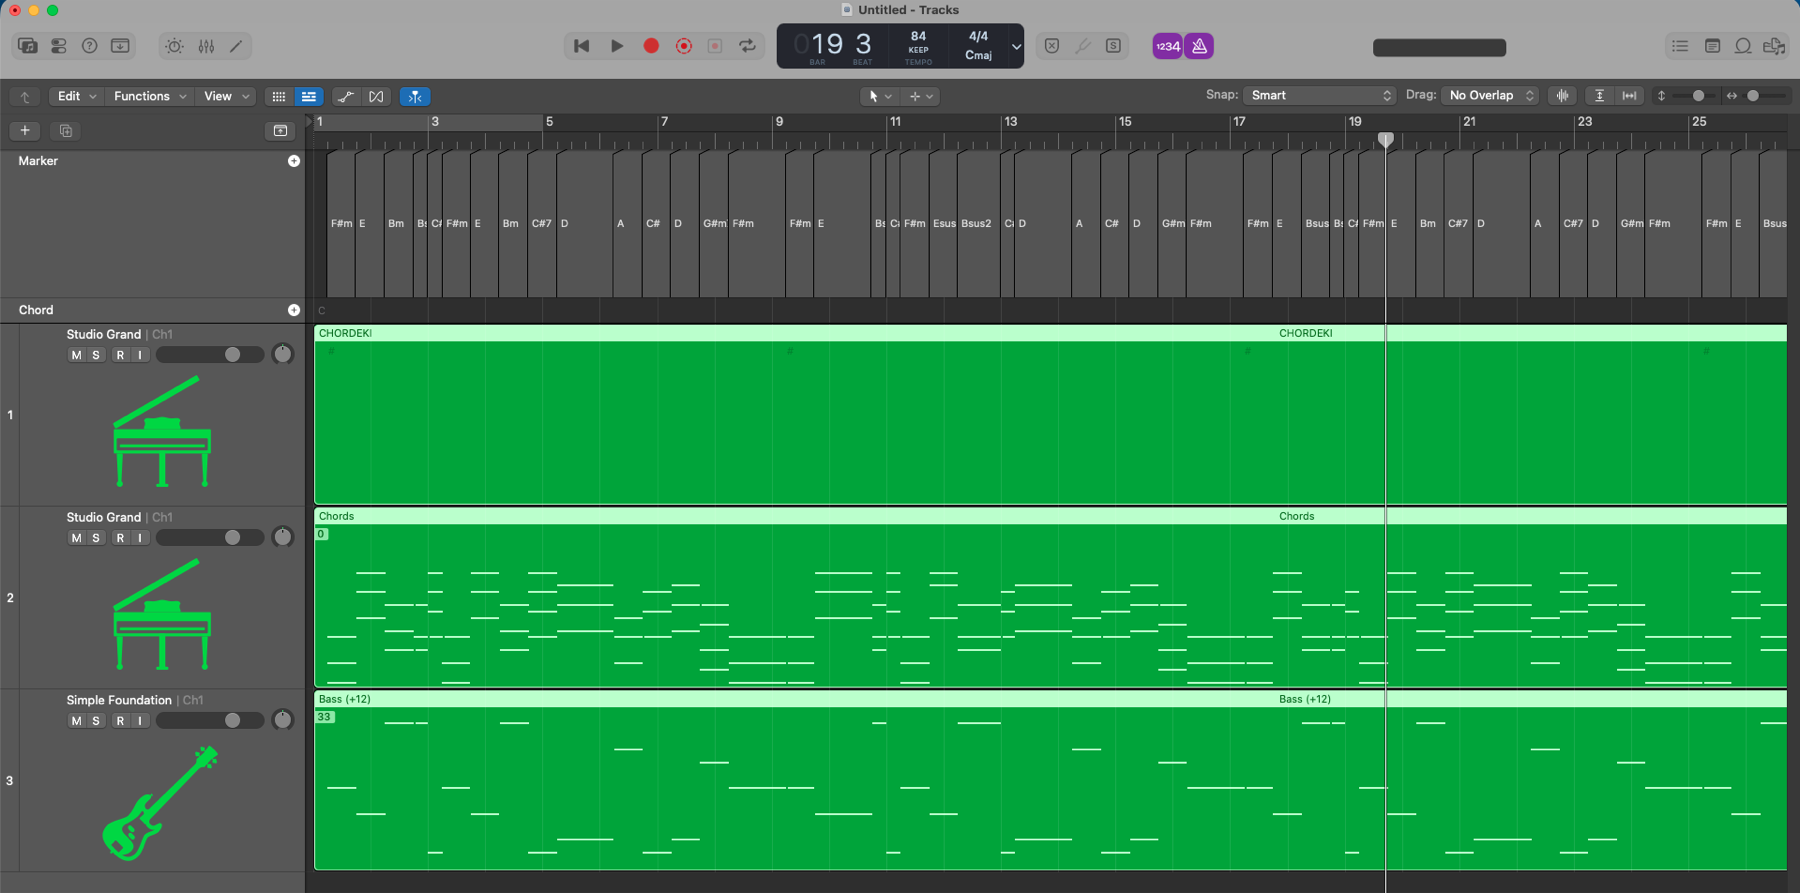
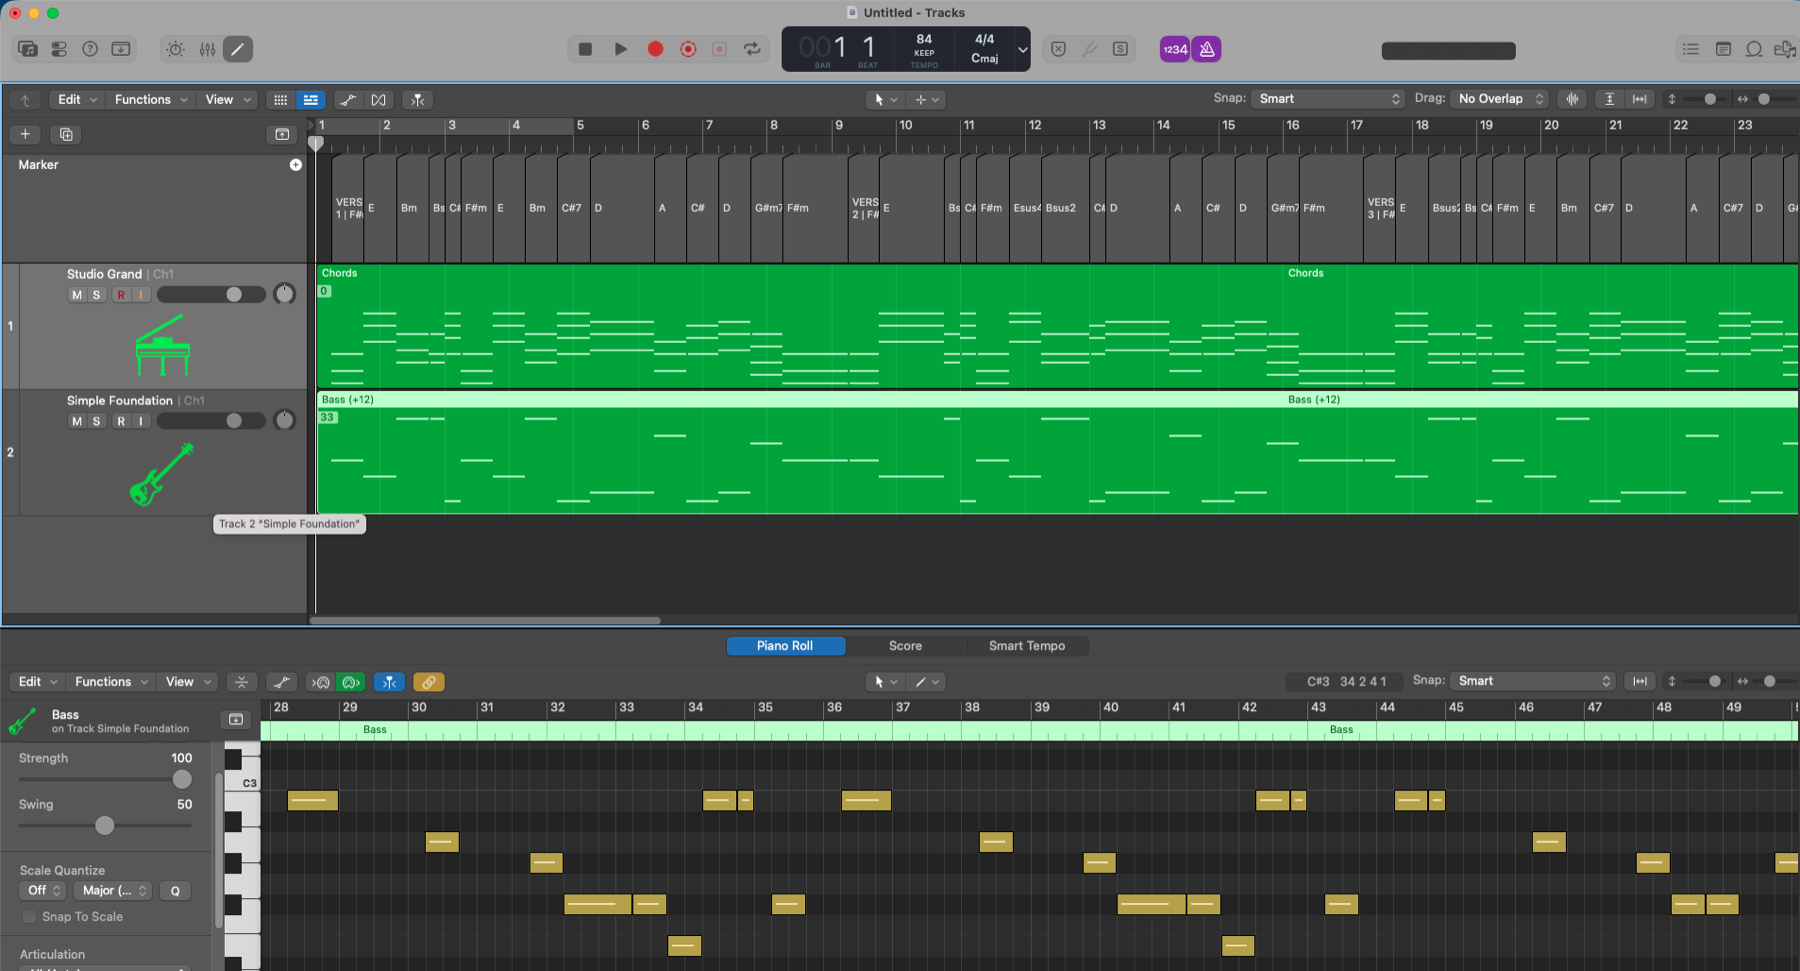
Website: Logic Pro screenshot of the 1.2.1 MIDI export

diff --git a/docs/hu/index.html b/docs/hu/index.html
@@ -163,8 +163,8 @@
 <section style="padding-top:10px">
   <div class="wrap">
     <h2>Egyenesen a DAW-ba</h2>
-    <p class="lead">Húzd be a MIDI-fájlt a dal mellé: kapsz egy <b>akkordsávot</b>, egy <b>basszussávot</b>, és minden akkord neve <b>markerként</b> ott van az idővonalon, a dal saját tempóján – itt Logic Pro-ban, az első ütemtől az utolsóig.</p>
-    <div class="shot" style="margin-top:0"><img src="../assets/chordeki-daw.png" alt="CHORDEKI MIDI-export Logic Pro-ban: akkordnevek markerként, akkordsáv és basszussáv"></div>
+    <p class="lead">Húzd be a MIDI-fájlt a dal mellé: kapsz egy <b>akkordsávot</b>, egy <b>basszussávot</b>, és minden akkord neve és a dal részei <b>markerként</b> ott vannak az idővonalon („VERSE 1 | F#m”), a dal saját tempóján – itt Logic Pro-ban, az első ütemtől az utolsóig.</p>
+    <div class="shot" style="margin-top:0"><img src="../assets/chordeki-daw.png" alt="CHORDEKI MIDI-export Logic Pro-ban: akkordnevek és részek markerként, akkordsáv és basszussáv"></div>
   </div>
 </section>
 

diff --git a/docs/index.html b/docs/index.html
@@ -162,8 +162,8 @@
 <section style="padding-top:10px">
   <div class="wrap">
     <h2>Straight into your DAW</h2>
-    <p class="lead">Drag the MIDI file in next to the song: a <b>chord track</b>, a <b>bass track</b> and every chord name as a <b>marker</b> on the timeline, on the song's own tempo – here in Logic Pro, from bar 1 to the last.</p>
-    <div class="shot" style="margin-top:0"><img src="assets/chordeki-daw.png" alt="A CHORDEKI MIDI export opened in Logic Pro: chord names as markers, a chord track and a bass track"></div>
+    <p class="lead">Drag the MIDI file in next to the song: a <b>chord track</b>, a <b>bass track</b>, and every chord name and section as a <b>marker</b> on the timeline ("VERSE 1 | F#m"), on the song's own tempo – here in Logic Pro, from bar 1 to the last.</p>
+    <div class="shot" style="margin-top:0"><img src="assets/chordeki-daw.png" alt="A CHORDEKI MIDI export opened in Logic Pro: chord names and sections as markers, a chord track and a bass track"></div>
   </div>
 </section>
 
